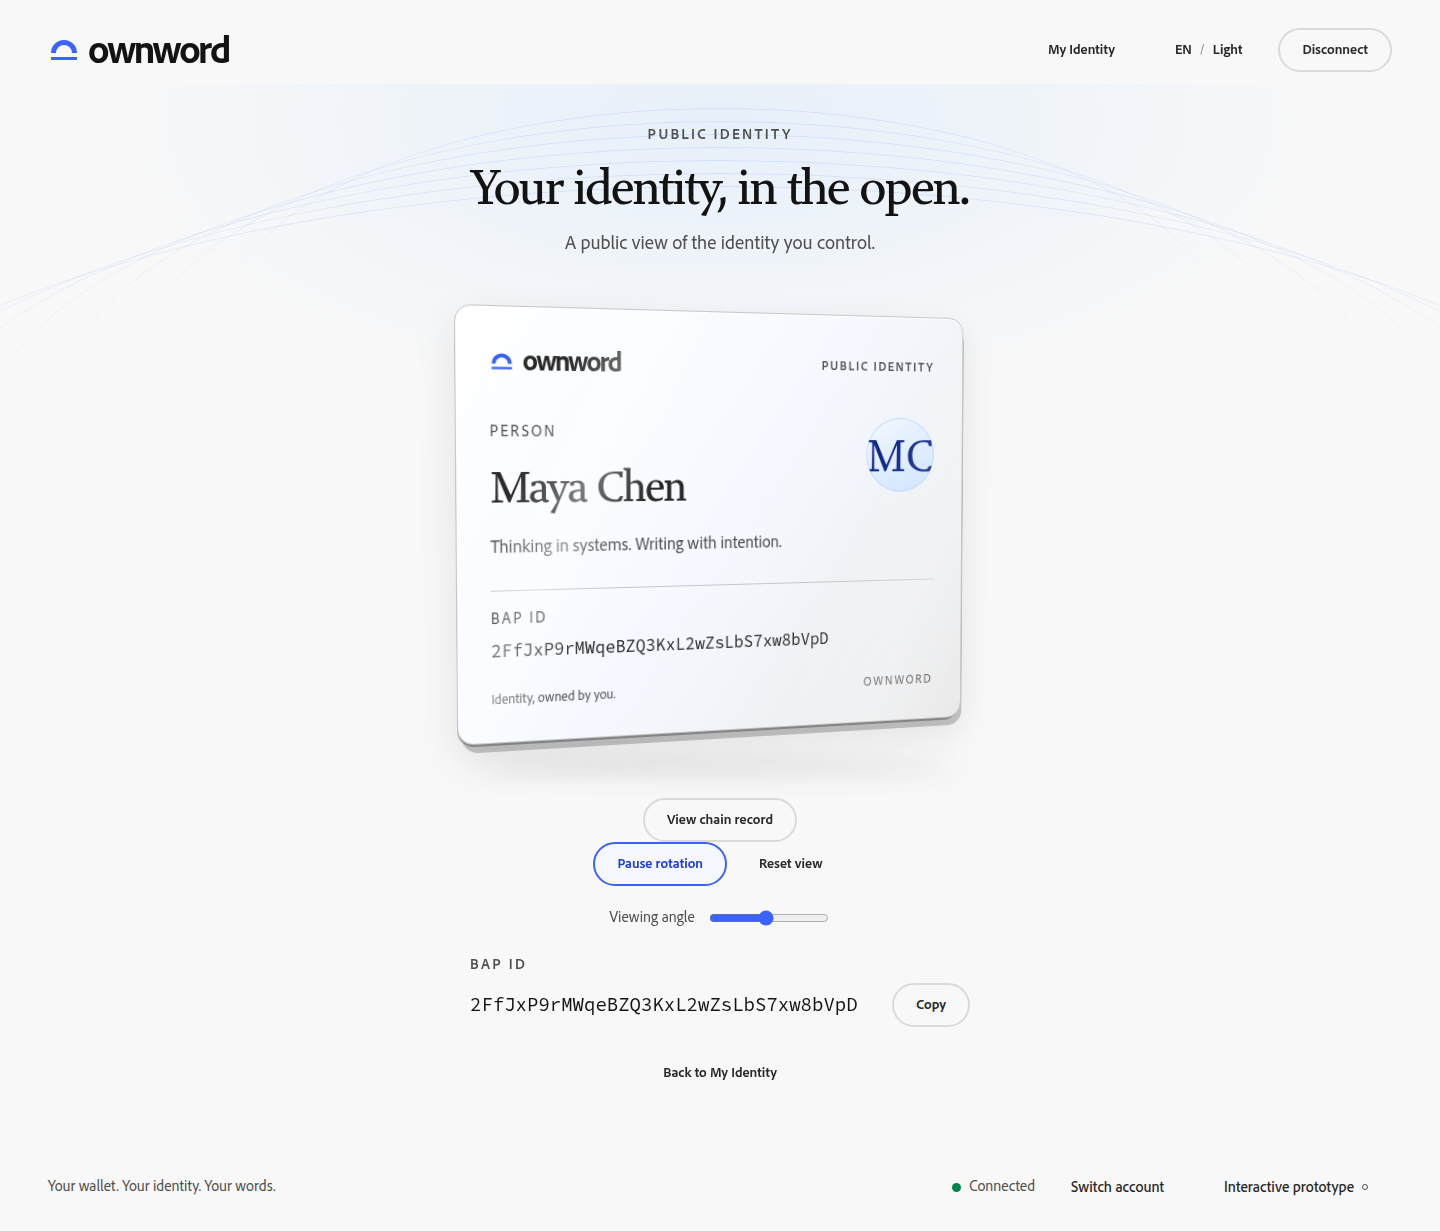
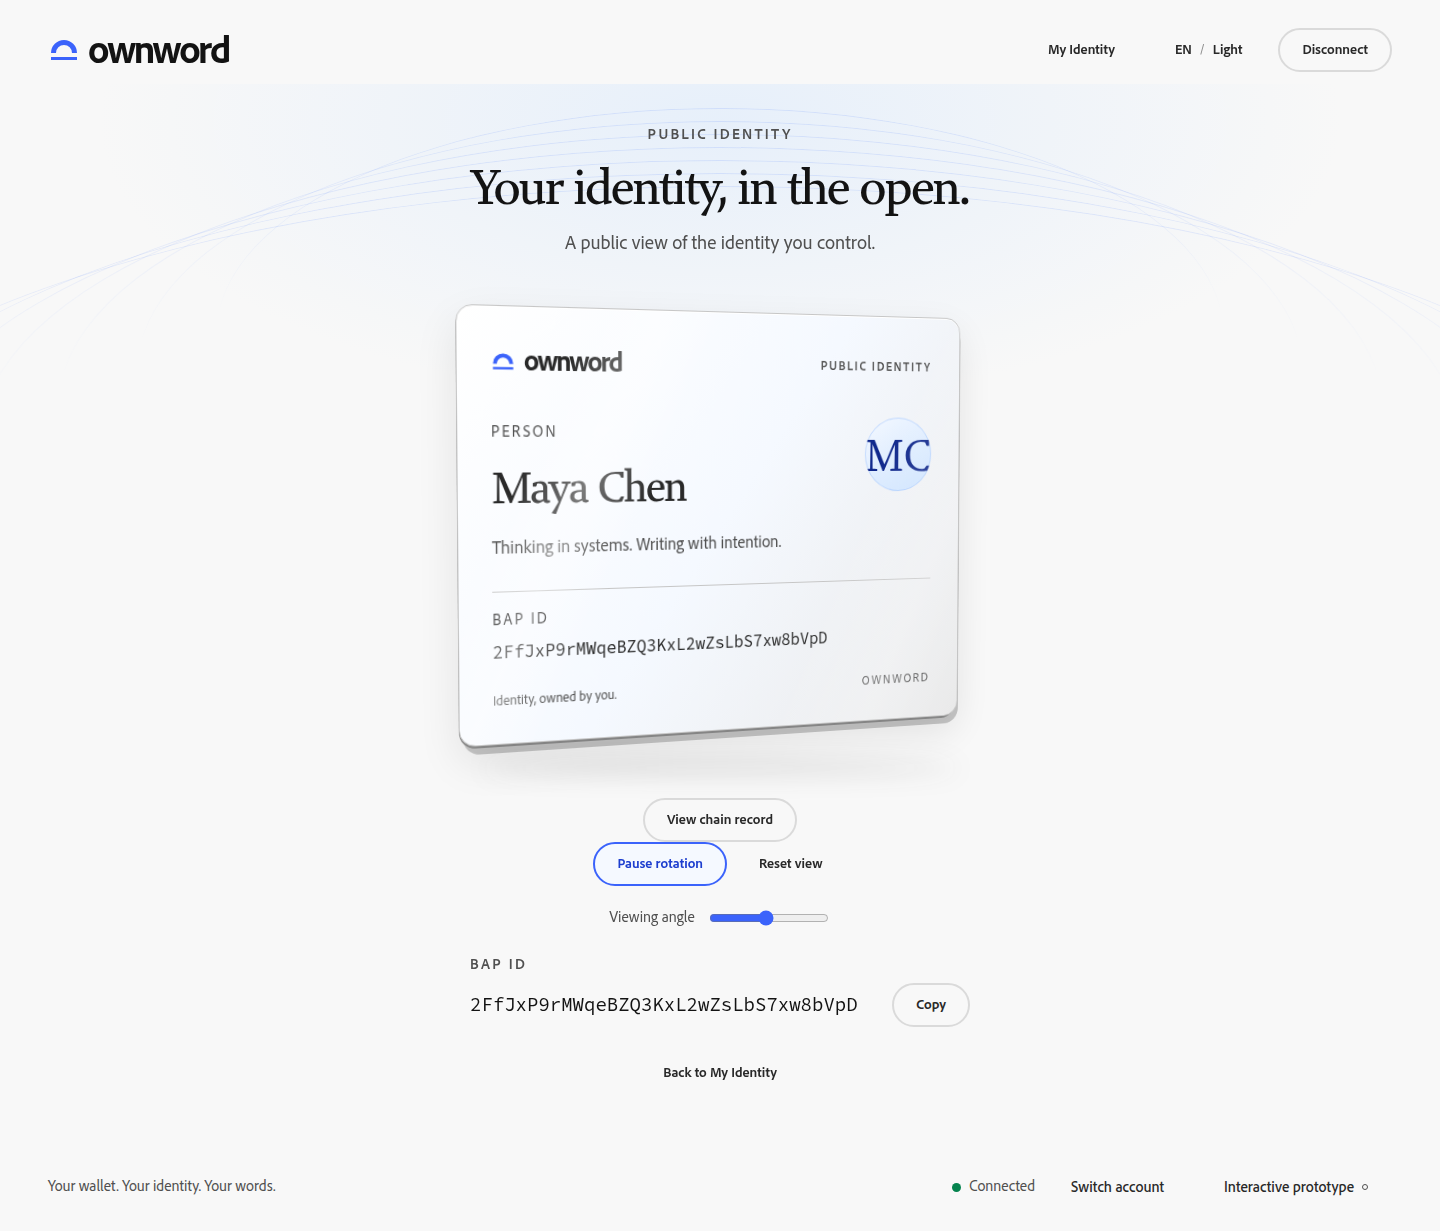
测试稳定性：坐标点击前等待有限过渡结束（避免 3D 卡变换中途点击落空） (PRD v0.1_20260910-122829)

diff --git a/check-browser.py b/check-browser.py
@@ -72,6 +72,9 @@ def click_action(name):
     """
     js(f'document.querySelector(\'[data-action="{name}"]\')?.scrollIntoView({{block: "center", behavior: "instant"}})')
     time.sleep(0.05)
+    # The 3D card animates its transform; a coordinate click fired mid-transition
+    # can land beside the target, so wait for finite transitions first.
+    settle()
     call('click', f'[data-action="{name}"]')
 
 def state(attribute):
